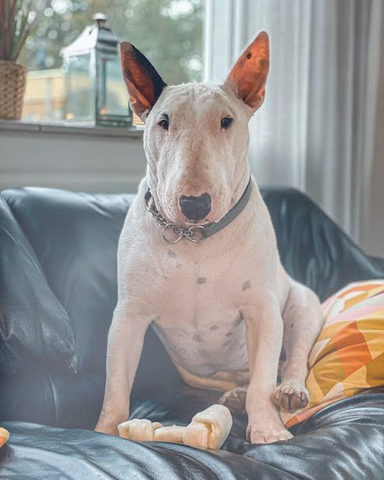
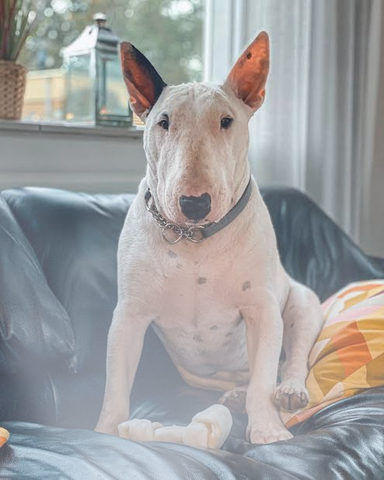
fix(fog): raise the default density so the haze is clearly visible
At 0.4 to 0.6 the demo photo showed almost no haze (blacks barely lifted).
Defaults are now density 0.8, gradient 0.7, patchiness 0.6; the gallery
recipe uses seed 5, whose clouds reach the lower half of the picture.

Changed region(s): [[0.0, 0.4062, 1.0, 1.0], [0.8438, 0.5, 0.9062, 0.5312], [0.0, 0.9375, 0.0312, 0.9688]]

diff --git a/src/photo_fx/effects/fog/effect.py b/src/photo_fx/effects/fog/effect.py
@@ -12,12 +12,12 @@ class FogParams(EffectParams):
     """Fog: the picture mixed toward `color` by an opacity of at most `density`, cloudy, thickest at the bottom."""
 
     density: float = param(
-        0.6,
+        0.8,
         unit="fraction",
         min=0,
         max=1,
         doc="How thick the fog is where it is thickest (the bottom of the frame, in the densest cloud): the share of "
-        "the fog colour mixed into the picture there. 0 = no fog, 0.6 = a clear haze, 1 = the colour itself, "
+        "the fog colour mixed into the picture there. 0 = no fog, 0.8 = a heavy haze, 1 = the colour itself, "
         "hiding the picture. Fog also lowers contrast, since every pixel moves toward the same colour.",
     )
     color: Color = param(
@@ -26,7 +26,7 @@ class FogParams(EffectParams):
         "white a thick cloud, a warm grey smog.",
     )
     gradient: float = param(
-        0.6,
+        0.7,
         unit="fraction",
         min=0,
         max=1,
@@ -35,7 +35,7 @@ class FogParams(EffectParams):
         "the same all the way up, 1 = no fog at the very top, as for mist lying on the ground.",
     )
     patchiness: float = param(
-        0.7,
+        0.6,
         unit="fraction",
         min=0,
         max=1,
